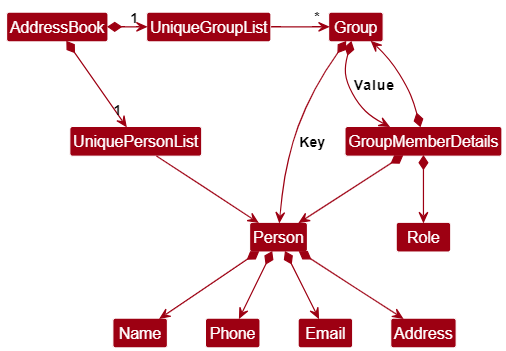
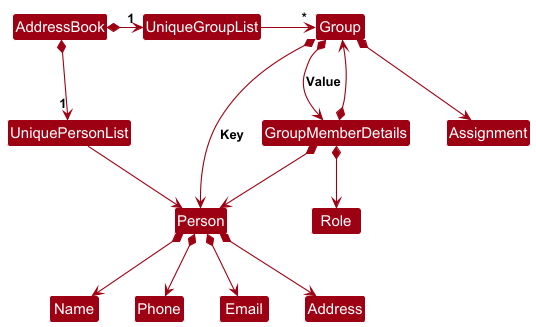
Update more DG diagrams

diff --git a/docs/DeveloperGuide.md b/docs/DeveloperGuide.md
@@ -228,7 +228,7 @@ The `Group` object will create a new `GroupMemberDetail` object tied to the newl
 
 The sequence diagram below illustrates the process of adding an Assignment to a Group using the command `add-assignment n/a g/g d/d`.
 
-1. As will all commands, the command will go through the standard logic sequence. A unique command parser is created to parse the input data and construct an `AddAssignmentCommand` object.
+1. As with all commands, the command will go through the standard logic sequence. A unique command parser is created to parse the input data and construct an `AddAssignmentCommand` object.
 2. The `LogicManager` then executes the command by calling `execute(m)`
 3. The `AddAssignmentCommand` retrieves the target `Group` object from the `Model`
 4. The `Model`'s `addAssignmentToGroup` method is called with the necessary parameters.
